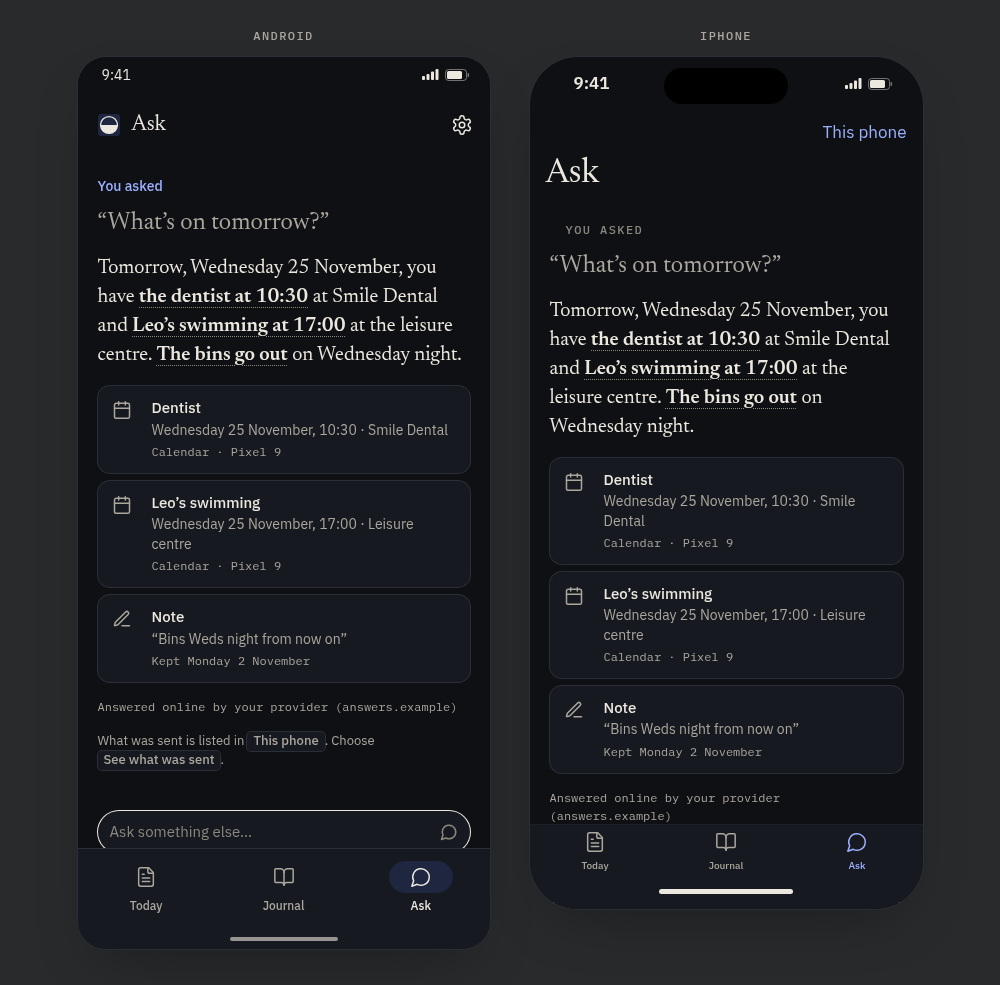
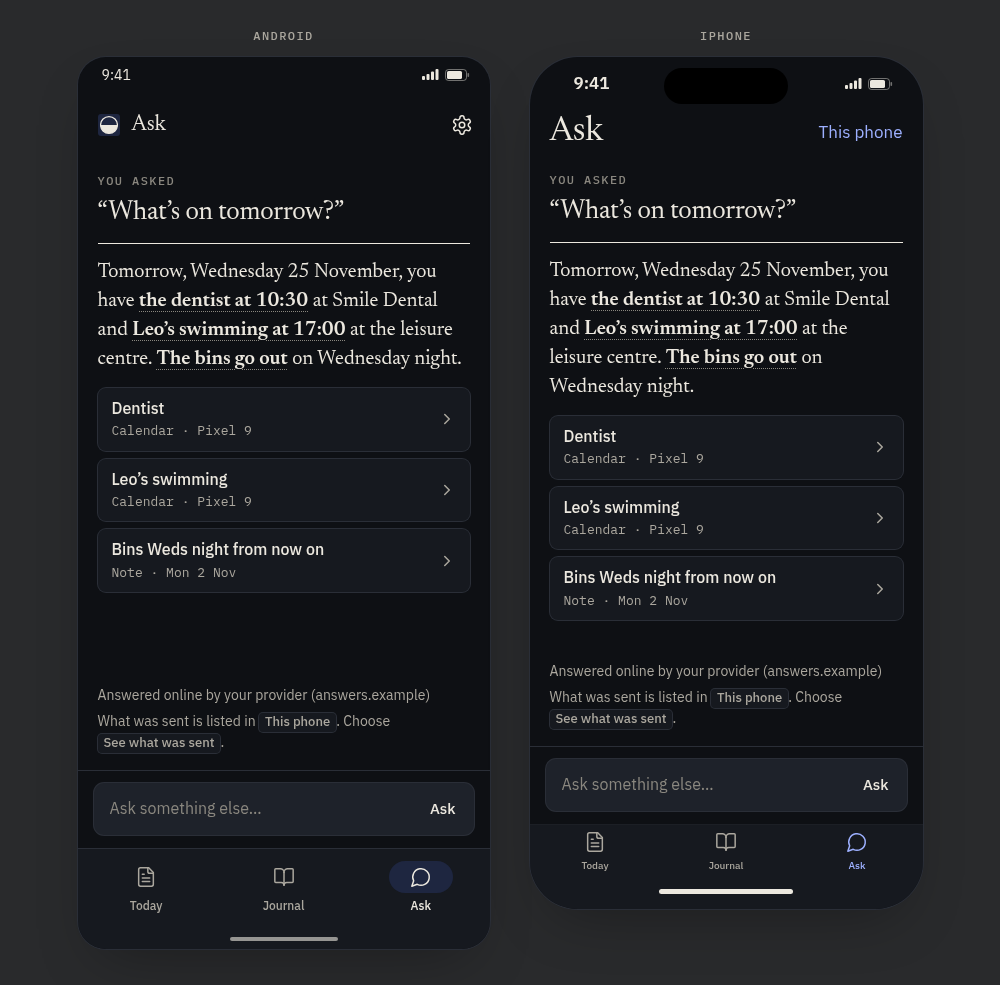
docs(design): tidy the ask with tools mockups

diff --git a/docs/design/mockups/ask-with-tools/ask.css b/docs/design/mockups/ask-with-tools/ask.css
@@ -1,64 +1,122 @@
 /* Static mockups for docs/design/ask-with-tools.md. Frames, tokens and the phone and computer
    parts come from the phone app kit; this adds the answer, its receipts, the line while the mind
-   looks, and the parts of a question in What was sent. */
+   looks, and the parts of a question in What was sent. Sizes follow the built Ask screens
+   (ui/src/phone/phone.css and ui/src/screens/ask/Ask.module.css). */
 @import "../phone-parity/parity.css";
 
-.new { outline: 2px dashed var(--marker); outline-offset: 4px; border-radius: 2px; }
+/* What is new: a dashed mark outside the content, which keeps its own gutter */
+.new { outline: 2px dashed var(--marker); outline-offset: 6px; border-radius: 2px; }
+.sentMeta.new { margin: 6px 0 4px; }
+.parts.new { margin-top: 14px; }
+.fields > .new { margin: 6px 0; }
+.progress .now.new { margin-top: 6px; }
 
-/* The question and the answer */
-.asked { display: flex; flex-direction: column; gap: 6px; }
-.askedQ { font: 400 1.5rem / 1.25 var(--font-serif); color: var(--ink2); text-wrap: balance; }
+/* A label, as the app draws it on both phones: never the kit's Android group heading */
+.lbl { color: var(--ink3); font: 500 0.75rem / 1.4 var(--font-mono); letter-spacing: 0.12em; text-transform: uppercase; }
+
+/* The iPhone's large title carries This phone on its own line, both at the content's gutter */
+.device[data-os="ios"] .navLarge { display: flex; align-items: center; justify-content: space-between; gap: 12px; padding: 2px 20px 4px; }
+.device[data-os="ios"] .navLarge .navRow { order: 2; height: auto; }
+.device[data-os="ios"] .navLarge .navRow > span:first-child { display: none; }
+
+/* Without tabs, the home indicator sits on a band of the page so the list ends cleanly above it */
+.screen:not(.hasTabs) .homebar { background: var(--bg); }
+
+/* The phone's Ask: question, answer, receipts, and the ask bar held above the tabs */
+.asked { display: flex; flex-direction: column; gap: 8px; }
+.askedQ { margin: 0; padding-bottom: 14px; border-bottom: 1px solid var(--rule2); font: 400 1.625rem / 1.2 var(--font-serif); letter-spacing: -0.01em; text-wrap: balance; }
 .answerText { font: 400 1.25rem / 1.45 var(--font-serif); text-wrap: pretty; }
 .span { font-weight: 600; text-decoration: underline dotted var(--ink3) 1px; text-underline-offset: 5px; }
-.working { display: flex; align-items: center; gap: 10px; color: var(--ink2); font-size: 0.9375rem; line-height: 1.45; }
-.spin { flex: none; width: 16px; height: 16px; border: 2px solid var(--rule2); border-top-color: var(--ink); border-radius: 50%; }
-.found { color: var(--ink2); font-size: 0.875rem; }
-.markLine { color: var(--ink2); font: 400 0.75rem / 1.5 var(--font-mono); }
+.workRow { display: flex; align-items: center; justify-content: space-between; gap: 12px; }
+.working { display: inline-flex; align-items: center; gap: 9px; color: var(--ink2); font-size: 0.875rem; line-height: 1.45; }
+.breath { flex: none; width: 7px; height: 7px; border-radius: 50%; background: var(--ink); }
+.stopBtn { display: inline-flex; align-items: center; height: 40px; padding: 0 14px; border-radius: 8px; box-shadow: 0 0 0 1px var(--rule); color: var(--ink); font-size: 0.9375rem; font-weight: 500; }
+.hints { display: flex; flex-direction: column; gap: 6px; }
+.hint { color: var(--ink2); font-size: 0.875rem; line-height: 1.45; }
+.hint .cc { font-size: 0.8125rem; }
+.spacer { margin-top: auto; }
 
-/* Receipts, as the phone and the computer show them */
 .rcpts { display: flex; flex-direction: column; gap: 8px; margin: 0; padding: 0; list-style: none; }
-.rcpt { display: grid; grid-template-columns: 28px 1fr; gap: 12px; align-items: start; padding: 12px 14px; border-radius: 12px; background: var(--sheet); box-shadow: 0 0 0 1px var(--rule); }
-.rcpt svg { margin-top: 2px; color: var(--ink2); }
-.rcptTitle { display: block; font-size: 0.9375rem; font-weight: 500; line-height: 1.35; }
+.rcpt { display: grid; grid-template-columns: minmax(0, 1fr) 18px; gap: 14px; align-items: center; min-height: 60px; padding: 10px 14px; border-radius: 8px; background: var(--sheet); box-shadow: 0 0 0 1px var(--rule); }
+.rcpt svg { color: var(--ink2); }
+.rcptTitle { display: block; font-size: 1rem; font-weight: 500; line-height: 1.35; }
 .rcptSaid { display: block; margin-top: 2px; color: var(--ink2); font-size: 0.875rem; line-height: 1.4; }
-.rcptMeta { display: block; margin-top: 4px; color: var(--ink2); font: 400 0.75rem / 1.4 var(--font-mono); }
+.rcptMeta { display: block; margin-top: 3px; color: var(--ink2); font: 400 0.8125rem / 1.4 var(--font-mono); }
 
-/* The ask bar at the foot of the phone's Ask */
-.askbar { display: flex; gap: 8px; align-items: center; margin-top: auto; padding: 10px 12px; border-radius: 24px; background: var(--sheet); box-shadow: 0 0 0 1px var(--rule2); color: var(--ink3); font-size: 0.9375rem; }
-.askbar span:first-child { flex: 1; }
-.stopBtn { padding: 4px 12px; border-radius: 14px; box-shadow: 0 0 0 1px var(--rule2); color: var(--ink); font-size: 0.875rem; font-weight: 500; }
+.screen.hasTabs .scroll > .pmain:has(.askFoot) { gap: 14px; padding-top: 16px; }
+.device[data-os="android"] .screen.hasTabs .scroll > .pmain:has(.askFoot) { padding-bottom: 196px; }
+.device[data-os="ios"] .screen.hasTabs .scroll > .pmain:has(.askFoot) { padding-bottom: 180px; }
+.askFoot { position: absolute; left: 0; right: 0; z-index: 2; padding: 12px 16px 14px; border-top: 1px solid var(--rule); background: var(--bg); }
+.device[data-os="android"] .askFoot { bottom: 100px; }
+.device[data-os="ios"] .askFoot { bottom: 84px; }
+.askBox { display: flex; align-items: center; gap: 8px; min-height: 52px; padding: 0 6px 0 16px; border-radius: 10px; background: var(--raised); box-shadow: 0 0 0 1px var(--rule); color: var(--ink3); font-size: 1rem; }
+.askBox span:first-child { flex: 1; min-width: 0; overflow: hidden; white-space: nowrap; text-overflow: ellipsis; }
+.askSend { padding: 0 12px; color: var(--ink); font-size: 0.9375rem; font-weight: 500; }
 
-/* What was sent: a question and its parts */
+/* What was sent on the phone: a day, its rows, a question and its parts */
+.sentDay { display: flex; flex-direction: column; gap: 4px; }
 .sentRow { display: flex; flex-direction: column; gap: 4px; padding: 12px 0; border-bottom: 1px solid var(--rule); }
+.sentRow:last-child { border-bottom: 0; }
 .sentWhat { font-size: 1rem; font-weight: 500; }
 .sentMeta { color: var(--ink2); font: 400 0.8125rem / 1.4 var(--font-mono); }
-.parts { display: flex; flex-direction: column; gap: 14px; margin-top: 10px; }
-.part { display: flex; flex-direction: column; gap: 6px; padding-left: 12px; border-left: 2px solid var(--rule2); }
+.sentRow .lbl { padding-top: 10px; }
+.parts { display: flex; flex-direction: column; gap: 14px; margin-top: 8px; }
+.qpart { display: flex; flex-direction: column; gap: 6px; padding-left: 12px; border-left: 2px solid var(--rule); }
 .partH { color: var(--ink2); font: 500 0.75rem / 1.4 var(--font-mono); letter-spacing: 0.08em; text-transform: uppercase; }
-.partAsk { font-size: 0.9375rem; font-weight: 400; line-height: 1.45; }
-.words { margin: 0; padding: 10px 12px; border-radius: 8px; background: var(--bg); box-shadow: inset 0 0 0 1px var(--rule); font: 400 0.75rem / 1.55 var(--font-mono); white-space: pre-wrap; overflow-wrap: anywhere; }
+.partAsk { font-size: 0.9375rem; line-height: 1.45; }
+.sentWords { margin: 0; padding: 10px 12px; border-radius: 8px; background: var(--bg); box-shadow: inset 0 0 0 1px var(--rule); font: 400 0.75rem / 1.55 var(--font-mono); white-space: pre-wrap; overflow-wrap: anywhere; }
+.device .sentWords { background: var(--sheet); }
 .resent { color: var(--ink2); font-size: 0.8125rem; line-height: 1.45; }
 
-/* The computer: Ask and Sent online */
-.askCol { display: flex; flex-direction: column; gap: 22px; width: 100%; max-width: 760px; margin: 0 auto; }
-.askCol .askedQ { font-size: 2rem; }
+/* The computer: Ask, as built, and Sent online */
+.askPage { display: flex; flex: 1; flex-direction: column; align-items: center; }
+.askPage > .back { align-self: flex-start; }
+.askCol { display: flex; flex-direction: column; gap: 8px; width: 100%; max-width: 760px; }
+.provenance { color: var(--ink3); font: 400 0.75rem / 1.5 var(--font-mono); }
+.provenance .seeSent { color: var(--accent); white-space: nowrap; }
+.askCol .eyebrow { color: var(--ink3); font: 400 0.8125rem / 1.3 var(--font-mono); letter-spacing: 0.08em; text-transform: uppercase; }
+.askCol .askedQ { padding: 0; border: 0; color: var(--ink2); font-size: 2rem; }
+.answerBody { display: flex; flex-direction: column; gap: 18px; margin-top: 16px; padding-top: 24px; border-top: 1px solid var(--rule2); }
 .askCol .answerText { font-size: 1.75rem; line-height: 1.4; }
-.rcptGrid { display: grid; grid-template-columns: 1fr 1fr; gap: 10px; }
+.progress { display: flex; flex-direction: column; gap: 6px; color: var(--ink2); font-size: 0.8125rem; }
+.progress .now { align-self: flex-start; color: var(--ink); }
+.receipts { display: flex; flex-direction: column; gap: 12px; margin: 0; padding: 0; list-style: none; }
+.receipt { display: flex; align-items: center; gap: 14px; padding: 12px 16px; border: 1px solid var(--rule); border-radius: var(--r-md); }
+.receipt .thumb { display: inline-flex; flex: none; align-items: center; justify-content: center; width: 40px; min-height: 40px; color: var(--ink2); }
+.receipt .rcptText { display: flex; flex: 1; flex-direction: column; gap: 4px; min-width: 0; }
+.receipt .rcptTitle { font-size: 0.9375rem; font-weight: 500; }
+.receipt .rcptSaid, .receipt .rcptMeta { margin: 0; }
+.receipt .rcptMeta { font-size: 0.8125rem; }
+
 .sentSplit { display: grid; grid-template-columns: 220px minmax(0, 1fr); gap: 28px; }
 .sentList { display: flex; flex-direction: column; gap: 4px; }
 .sentList .day { padding: 6px 0 2px; color: var(--ink3); font: 500 0.75rem / 1.4 var(--font-mono); letter-spacing: 0.08em; text-transform: uppercase; }
-.sentList .item { padding: 8px 10px; border-radius: 8px; font-size: 0.875rem; line-height: 1.35; }
+.sentList .item { display: flex; flex-direction: column; gap: 2px; padding: 8px 10px; border-radius: 8px; font-size: 0.875rem; line-height: 1.35; }
 .sentList .item[aria-current] { background: var(--accent-soft); }
-.sentList .item small { display: block; color: var(--ink2); font: 400 0.75rem / 1.4 var(--font-mono); }
+.sentList .item small { color: var(--ink2); font: 400 0.75rem / 1.4 var(--font-mono); }
+.sentList .item small .new { outline-offset: 2px; }
 .fields { display: grid; grid-template-columns: max-content 1fr; gap: 6px 18px; margin: 0; font-size: 0.9375rem; }
+.fields > div { display: grid; grid-column: 1 / -1; grid-template-columns: subgrid; }
 .fields dt { color: var(--ink2); }
 .fields dd { margin: 0; }
 .entryH { font: 400 1.5rem / 1.25 var(--font-serif); }
+.sentEntry .lbl { padding-top: 4px; }
 .fromLine { display: block; color: var(--ink2); font: 400 0.75rem / 1.4 var(--font-sans); }
 
 /* 200 per cent on the computer: the window is half as wide, so the columns stack. */
 @media (max-width: 760px) {
-  .rcptGrid, .sentSplit { grid-template-columns: 1fr; }
+  .sentSplit { grid-template-columns: 1fr; }
   .askCol .askedQ { font-size: 1.5rem; }
   .askCol .answerText { font-size: 1.375rem; }
 }
+
+/* 200 per cent on the phone: the status bar keeps the phone's own size, the tabs and the ask bar
+   follow the content so nothing sits over it, and the iPhone's back button keeps only its arrow. */
+html[data-text="200"] .device[data-os="android"] .sys { font-size: 14px; }
+html[data-text="200"] .device[data-os="ios"] .sys { font-size: 17px; }
+html[data-text="200"] .tabs, html[data-text="200"] .homebar { position: static; flex: none; }
+html[data-text="200"] .device[data-os] .tabs { height: auto; padding-bottom: 8px; }
+html[data-text="200"] .device[data-os] .screen.hasTabs .scroll > .pmain { padding-bottom: 0; }
+html[data-text="200"] .askFoot { position: static; margin: auto -20px 0; }
+html[data-text="200"] .device[data-os="ios"] .navBack { font-size: 0; }
+html[data-text="200"] .device[data-os="ios"] .nav { padding-left: 12px; }

diff --git a/docs/design/mockups/ask-with-tools/desktop.html b/docs/design/mockups/ask-with-tools/desktop.html
@@ -9,65 +9,69 @@
 <body data-frame="app" data-section="none" data-states="looking answer sent">
 <div id="content" class="sheet">
 
-  <!-- Ask: the question while the mind looks through the journal -->
-  <div class="askCol" data-state="looking answer">
-    <span class="link2" style="font-size: 0.875rem; color: var(--ink2)">← Today</span>
-    <p class="markLine" data-state="answer">Answered online by your provider (answers.example) from 3 things you kept · <span style="color: var(--accent)">See what was sent</span></p>
-    <div class="asked">
+  <!-- Ask: the question while the mind looks through the journal, then the answer -->
+  <div class="askPage" data-state="looking answer">
+    <span class="back"><span aria-hidden="true">←</span> Today</span>
+    <article class="askCol">
+      <p class="provenance" data-state="answer">Answered online by your provider (answers.example) from 3 things you kept · <span class="seeSent">See what was sent</span></p>
       <p class="eyebrow">You asked</p>
       <h1 class="askedQ">“How was Leo’s parents’ evening?”</h1>
-    </div>
-    <p class="found" data-state="looking">Found 1 thing you kept about this</p>
-    <div class="working new" data-state="looking" role="status"><span class="spin"></span><span>Looking through your journal…</span></div>
+      <div class="answerBody">
+        <div class="progress" data-state="looking" role="status">
+          <p><span aria-hidden="true">✓ </span>Found 1 thing you kept about this</p>
+          <p class="now new"><span aria-hidden="true">· </span>Looking through your journal…</p>
+        </div>
 
-    <p class="answerText" data-state="answer">Parents’ evening was on <span class="span">Tuesday 17 November at 18:00</span>. That day you wrote that <span class="span">Mrs Patel said Leo’s reading has come on a lot</span>, and your good thing was that <span class="span">Leo read a whole chapter on his own</span>.</p>
-    <div class="rcptGrid" data-state="answer">
-      <div class="rcpt"><span data-icon="calendar" data-size="20"></span><span><span class="rcptTitle">Parents’ evening</span><span class="rcptSaid">Tuesday 17 November, 18:00 · School hall</span><span class="rcptMeta">Calendar · Pixel 9</span></span></div>
-      <div class="rcpt"><span data-icon="book" data-size="20"></span><span><span class="rcptTitle">Journal, Tuesday 17 November</span><span class="rcptSaid">“Mrs Patel says his reading has come on a lot…”</span><span class="rcptMeta">Entry · Tue 17 Nov</span></span></div>
-      <div class="rcpt"><span data-icon="sun" data-size="20"></span><span><span class="rcptTitle">Good thing</span><span class="rcptSaid">“Leo read a whole chapter on his own”</span><span class="rcptMeta">Good thing · Tue 17 Nov</span></span></div>
-    </div>
-    <div class="buttons" data-state="answer"><span class="button" data-variant="secondary">That’s wrong</span><span class="button" data-variant="secondary">Keep forever</span><span class="button" data-variant="quiet">Delete this…</span></div>
+        <p class="answerText" data-state="answer">Parents’ evening was on <span class="span">Tuesday 17 November at 18:00</span>. That day you wrote that <span class="span">Mrs Patel said Leo’s reading has come on a lot</span>, and your good thing was that <span class="span">Leo read a whole chapter on his own</span>.</p>
+        <ul class="receipts" data-state="answer">
+          <li class="receipt"><span class="thumb"><span data-icon="calendar" data-size="20"></span></span><span class="rcptText"><span class="rcptTitle">Parents’ evening</span><span class="rcptSaid">Tuesday 17 November, 18:00 · School hall</span><span class="rcptMeta">Calendar · Pixel 9</span></span></li>
+          <li class="receipt"><span class="thumb"><span data-icon="book" data-size="20"></span></span><span class="rcptText"><span class="rcptTitle">Journal, Tuesday 17 November</span><span class="rcptSaid">“Mrs Patel says his reading has come on a lot…”</span><span class="rcptMeta">Entry · Tue 17 Nov</span></span></li>
+          <li class="receipt"><span class="thumb"><span data-icon="sun" data-size="20"></span></span><span class="rcptText"><span class="rcptTitle">Good thing</span><span class="rcptSaid">“Leo read a whole chapter on his own”</span><span class="rcptMeta">Good thing · Tue 17 Nov</span></span></li>
+        </ul>
+        <div class="buttons" data-state="answer"><span class="button" data-variant="secondary">That’s wrong</span><span class="button" data-variant="secondary">Keep forever</span><span class="button" data-variant="quiet">Delete this…</span></div>
+      </div>
+    </article>
   </div>
 
   <!-- Sent online: one question in two parts -->
   <div data-state="sent" style="display: flex; flex-direction: column; gap: 18px">
-    <span class="link2" style="font-size: 0.875rem; color: var(--ink2)">← Online answers</span>
+    <span class="back" style="margin-bottom: 0"><span aria-hidden="true">←</span> Online answers</span>
     <h1 class="t-page-title">Sent online</h1>
     <p class="plead">Every question Nocturne sent for online answers, word for word as it left this computer. Kept for 90 days.</p>
     <div class="sentSplit">
       <nav class="sentList" aria-label="Sent by day">
         <span class="day">Today</span>
-        <span class="item" aria-current="true">How was Leo’s parents’ evening?<small class="new">21:40 · 6.2 KB · answered · 2 parts</small></span>
+        <span class="item" aria-current="true">How was Leo’s parents’ evening?<small>21:40 · 6.2 KB · answered · <span class="new">2 parts</span></small></span>
         <span class="item">When is the dentist?<small>18:02 · 1.9 KB · answered</small></span>
         <span class="day">Monday 23 November</span>
         <span class="item">Connection check<small>09:12 · 0.6 KB · worked</small></span>
       </nav>
-      <section aria-label="Entry" style="display: flex; flex-direction: column; gap: 14px; min-width: 0">
+      <section class="sentEntry" aria-label="Entry" style="display: flex; flex-direction: column; gap: 14px; min-width: 0">
         <h2 class="entryH">How was Leo’s parents’ evening?</h2>
         <dl class="fields">
-          <dt>When</dt><dd>Today, 21:40</dd>
-          <dt>To</dt><dd>By Nocturne’s engine, to your provider (answers.example)</dd>
-          <dt>Size</dt><dd>5.1 KB sent, 1.1 KB back</dd>
-          <dt class="new">Parts</dt><dd class="new">2: your provider looked once. Counted 2 times towards your limit.</dd>
-          <dt>Cost</dt><dd>$0.004</dd>
-          <dt>Result</dt><dd>Answered, with 3 receipts checked on this computer</dd>
+          <div><dt>When</dt><dd>Today, 21:40</dd></div>
+          <div><dt>To</dt><dd>By Nocturne’s engine, to your provider (answers.example)</dd></div>
+          <div><dt>Size</dt><dd>5.1 KB sent, 1.1 KB back</dd></div>
+          <div class="new"><dt>Parts</dt><dd>2: your provider looked once. Counted 2 times towards your limit.</dd></div>
+          <div><dt>Cost</dt><dd>$0.004</dd></div>
+          <div><dt>Result</dt><dd>Answered, with 3 receipts checked on this computer</dd></div>
         </dl>
-        <p class="ghead">Exactly what was sent</p>
+        <p class="lbl">Exactly what was sent</p>
         <div class="parts new">
-          <div class="part">
+          <div class="qpart">
             <span class="partH">Part 1 · 2.1 KB</span>
-            <pre class="words">Facts:
+            <pre class="sentWords">Facts:
 [m1] Parents' evening is on Tuesday 17 November at 18:00, at the school hall. (on Tuesday 17 November)
 
 Today is Tuesday 24 November 2026, 21:40, in the time zone Europe/London. The week starts on Monday.
 Question: How was Leo’s parents’ evening?</pre>
             <span class="fromLine">[m1] from Calendar · Pixel 9</span>
           </div>
-          <div class="part">
+          <div class="qpart">
             <span class="partH">Part 2 · 3.0 KB</span>
             <span class="partAsk">Your provider asked to look through your journal for Tuesday 17 November.</span>
             <span class="partAsk">Sent back:</span>
-            <pre class="words">[m2] Mrs Patel said Leo's reading has come on a lot. (learned Tuesday 17 November)
+            <pre class="sentWords">[m2] Mrs Patel said Leo's reading has come on a lot. (learned Tuesday 17 November)
 [m3] Leo read a whole chapter on his own. (learned Tuesday 17 November)</pre>
             <span class="fromLine">[m2] from Journal entry, Tuesday 17 November · [m3] from Good thing, Tuesday 17 November</span>
           </div>
@@ -80,5 +84,11 @@ Question: How was Leo’s parents’ evening?</pre>
 
 </div>
 <script src="../phone-apps/shell.js"></script>
+<script>
+  // The kit's rail says Friday and Away from home. These mockups are on Tuesday 24 November, with
+  // Online answers on.
+  for (const day of document.querySelectorAll(".rail .link .mono")) day.textContent = "Tue";
+  for (const use of document.querySelectorAll(".rail .statusValue")) use.textContent = "Online answers";
+</script>
 </body>
 </html>

diff --git a/docs/design/mockups/ask-with-tools/phone.html b/docs/design/mockups/ask-with-tools/phone.html
@@ -17,63 +17,68 @@
 
   <!-- The question while the mind looks through the calendar -->
   <div class="asked" data-state="looking answer">
-    <p class="ghead">You asked</p>
+    <p class="lbl">You asked</p>
     <p class="askedQ">“What’s on tomorrow?”</p>
   </div>
-  <div class="working new" data-state="looking" role="status"><span class="spin"></span><span>Looking through your calendar…</span></div>
-  <div class="askbar" data-state="looking"><span>Ask something else…</span><span class="stopBtn">Stop</span></div>
+  <div class="workRow" data-state="looking" role="status"><span class="working new"><span class="breath"></span>Looking through your calendar…</span><span class="stopBtn">Stop</span></div>
 
   <!-- The answer, with its receipts -->
   <p class="answerText" data-state="answer">Tomorrow, Wednesday 25 November, you have <span class="span">the dentist at 10:30</span> at Smile Dental and <span class="span">Leo’s swimming at 17:00</span> at the leisure centre. <span class="span">The bins go out</span> on Wednesday night.</p>
   <ul class="rcpts" data-state="answer" aria-label="From 3 things you kept">
-    <li class="rcpt"><span data-icon="calendar" data-size="20"></span><span><span class="rcptTitle">Dentist</span><span class="rcptSaid">Wednesday 25 November, 10:30 · Smile Dental</span><span class="rcptMeta">Calendar · Pixel 9</span></span></li>
-    <li class="rcpt"><span data-icon="calendar" data-size="20"></span><span><span class="rcptTitle">Leo’s swimming</span><span class="rcptSaid">Wednesday 25 November, 17:00 · Leisure centre</span><span class="rcptMeta">Calendar · Pixel 9</span></span></li>
-    <li class="rcpt"><span data-icon="pen" data-size="20"></span><span><span class="rcptTitle">Note</span><span class="rcptSaid">“Bins Weds night from now on”</span><span class="rcptMeta">Kept Monday 2 November</span></span></li>
+    <li class="rcpt"><span><span class="rcptTitle">Dentist</span><span class="rcptMeta">Calendar · Pixel 9</span></span><span data-icon="chevron-right" data-size="18"></span></li>
+    <li class="rcpt"><span><span class="rcptTitle">Leo’s swimming</span><span class="rcptMeta">Calendar · Pixel 9</span></span><span data-icon="chevron-right" data-size="18"></span></li>
+    <li class="rcpt"><span><span class="rcptTitle">Bins Weds night from now on</span><span class="rcptMeta">Note · Mon 2 Nov</span></span><span data-icon="chevron-right" data-size="18"></span></li>
   </ul>
-  <p class="markLine" data-state="answer">Answered online by your provider (answers.example)</p>
-  <p class="small" data-state="answer">What was sent is listed in <span class="cc">This phone</span>. Choose <span class="cc">See what was sent</span>.</p>
-  <div class="askbar" data-state="answer"><span>Ask something else…</span><span data-icon="ask" data-size="18"></span></div>
+  <div class="spacer" data-state="answer"></div>
+  <div class="hints" data-state="answer">
+    <p class="hint">Answered online by your provider (answers.example)</p>
+    <p class="hint">What was sent is listed in <span class="cc">This phone</span>. Choose <span class="cc">See what was sent</span>.</p>
+  </div>
+
+  <div class="askFoot" data-state="looking answer"><div class="askBox"><span>Ask something else…</span><span class="askSend">Ask</span></div></div>
 
   <!-- What was sent: one question in three parts -->
   <p class="plead" data-state="sent">Everything this phone sent to answers.example, word for word as it left. Kept for 90 days.</p>
-  <p class="ghead" data-state="sent">Today</p>
-  <div class="sentRow" data-state="sent">
-    <span class="sentWhat">Answered a question</span>
-    <span class="sentMeta new">21:40 · answers.example · 9.8 KB · 3 parts, counted 3 times</span>
-    <p class="ghead" style="padding-top: 8px">Exactly what was sent</p>
-    <div class="parts new">
-      <div class="part">
-        <span class="partH">Part 1 · 1.9 KB</span>
-        <pre class="words">Facts:
+  <section class="sentDay" data-state="sent" aria-label="Tuesday 24 November">
+    <p class="lbl">Tuesday 24 November</p>
+    <div class="sentRow">
+      <span class="sentWhat">Answered a question</span>
+      <span class="sentMeta new">21:40 · answers.example · 9.8 KB · 3 parts, counted 3 times</span>
+      <p class="lbl">Exactly what was sent</p>
+      <div class="parts new">
+        <div class="qpart">
+          <span class="partH">Part 1 · 1.9 KB</span>
+          <pre class="sentWords">Facts:
 [m1] Gran's birthday lunch is on Sunday 29 November at 13:00, at The Swan. (on Sunday 29 November; learned Friday 20 November)
 
 Today is Tuesday 24 November 2026, 21:40, in the time zone Europe/London. The week starts on Monday.
 Question: Am I free for a haircut before Gran’s lunch?</pre>
-      </div>
-      <div class="part">
-        <span class="partH">Part 2 · 3.4 KB</span>
-        <span class="partAsk">Your provider asked to look through your calendar for Wednesday 25 to Sunday 29 November.</span>
-        <span class="partAsk">Sent back:</span>
-        <pre class="words">[m2] Dentist is on Wednesday 25 November at 10:30, at Smile Dental. (on Wednesday 25 November)
+        </div>
+        <div class="qpart">
+          <span class="partH">Part 2 · 3.4 KB</span>
+          <span class="partAsk">Your provider asked to look through your calendar for Wednesday 25 to Sunday 29 November.</span>
+          <span class="partAsk">Sent back:</span>
+          <pre class="sentWords">[m2] Dentist is on Wednesday 25 November at 10:30, at Smile Dental. (on Wednesday 25 November)
 [m3] Leo's swimming is on Wednesday 25 November at 17:00, at the leisure centre. (on Wednesday 25 November)
 [m4] Leo's football is on Saturday 28 November at 09:30. (on Saturday 28 November)</pre>
+        </div>
+        <div class="qpart">
+          <span class="partH">Part 3 · 4.5 KB</span>
+          <span class="partAsk">Your provider asked to look for “haircut hairdresser”.</span>
+          <span class="partAsk">Sent back: nothing kept.</span>
+        </div>
+        <p class="resent">Each part sent the parts before it again, so your provider could follow on. The size counts every part, and each part counts once towards your monthly limit.</p>
       </div>
-      <div class="part">
-        <span class="partH">Part 3 · 4.5 KB</span>
-        <span class="partAsk">Your provider asked to look for “haircut hairdresser”.</span>
-        <span class="partAsk">Sent back: nothing kept.</span>
-      </div>
-      <p class="resent">Each part sent the parts before it again, so your provider could follow on. The size counts every part, and each part counts once towards your monthly limit.</p>
     </div>
-  </div>
-  <div class="sentRow" data-state="sent">
-    <span class="sentWhat">Answered a question</span>
-    <span class="sentMeta">18:02 · answers.example · 2.1 KB</span>
-  </div>
-  <div class="sentRow" data-state="sent">
-    <span class="sentWhat">Read a thing you kept</span>
-    <span class="sentMeta">17:55 · answers.example · 1.4 KB</span>
-  </div>
+    <div class="sentRow">
+      <span class="sentWhat">Answered a question</span>
+      <span class="sentMeta">18:02 · answers.example · 2.1 KB</span>
+    </div>
+    <div class="sentRow">
+      <span class="sentWhat">Read a thing you kept</span>
+      <span class="sentMeta">17:55 · answers.example · 1.4 KB</span>
+    </div>
+  </section>
 
 </main>
 <script src="../phone-apps/shell.js"></script>
